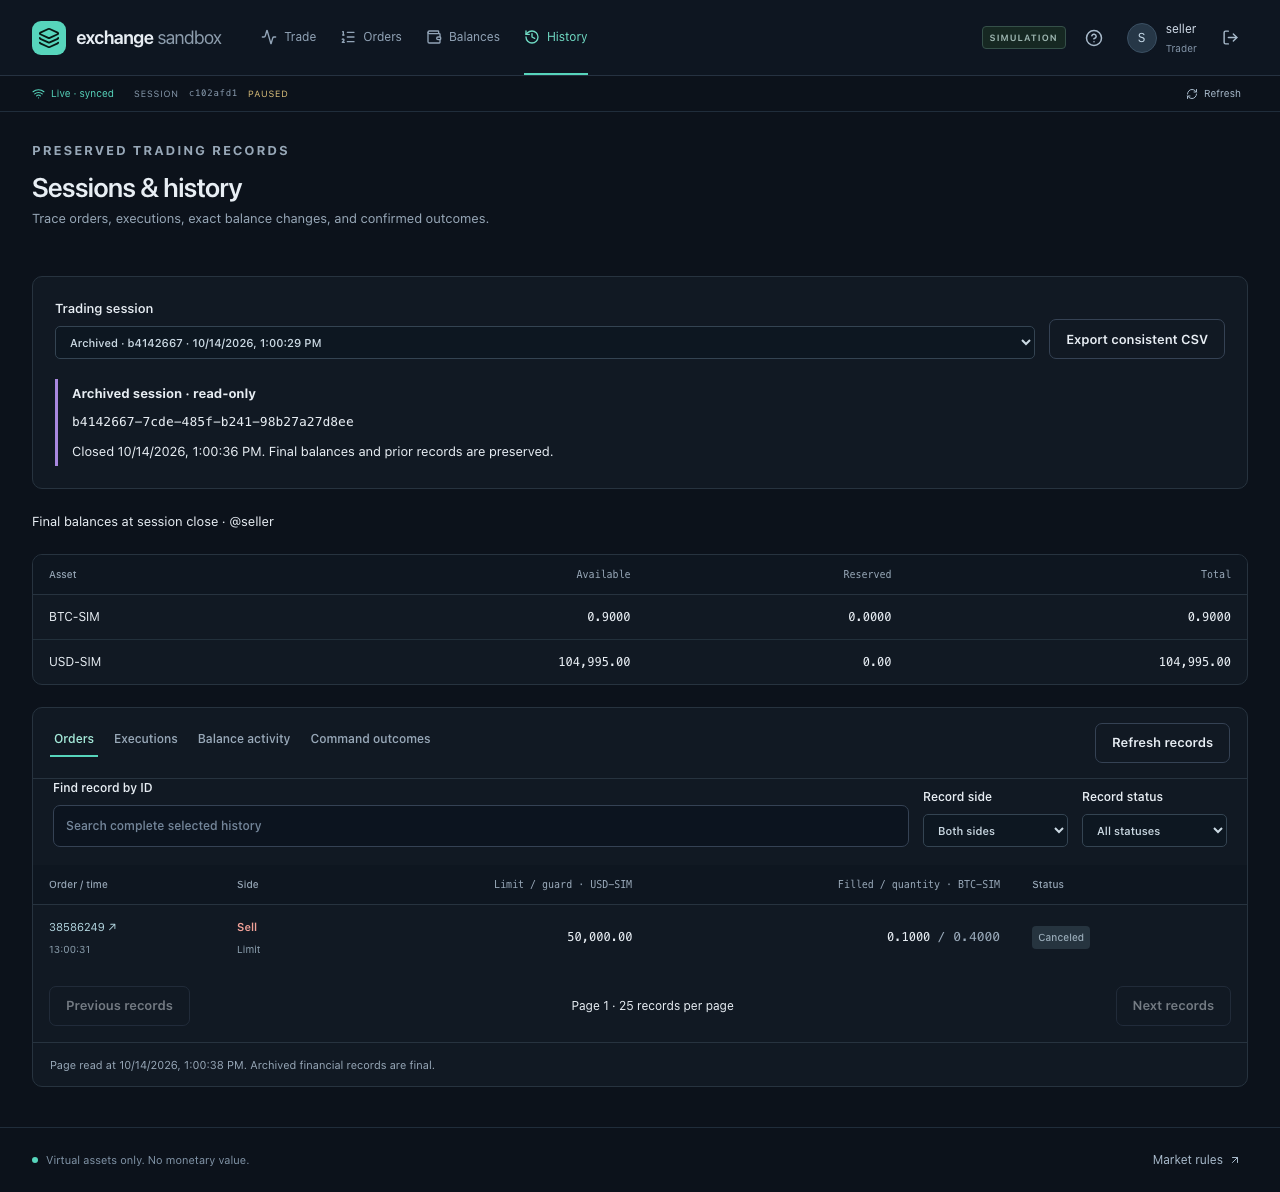
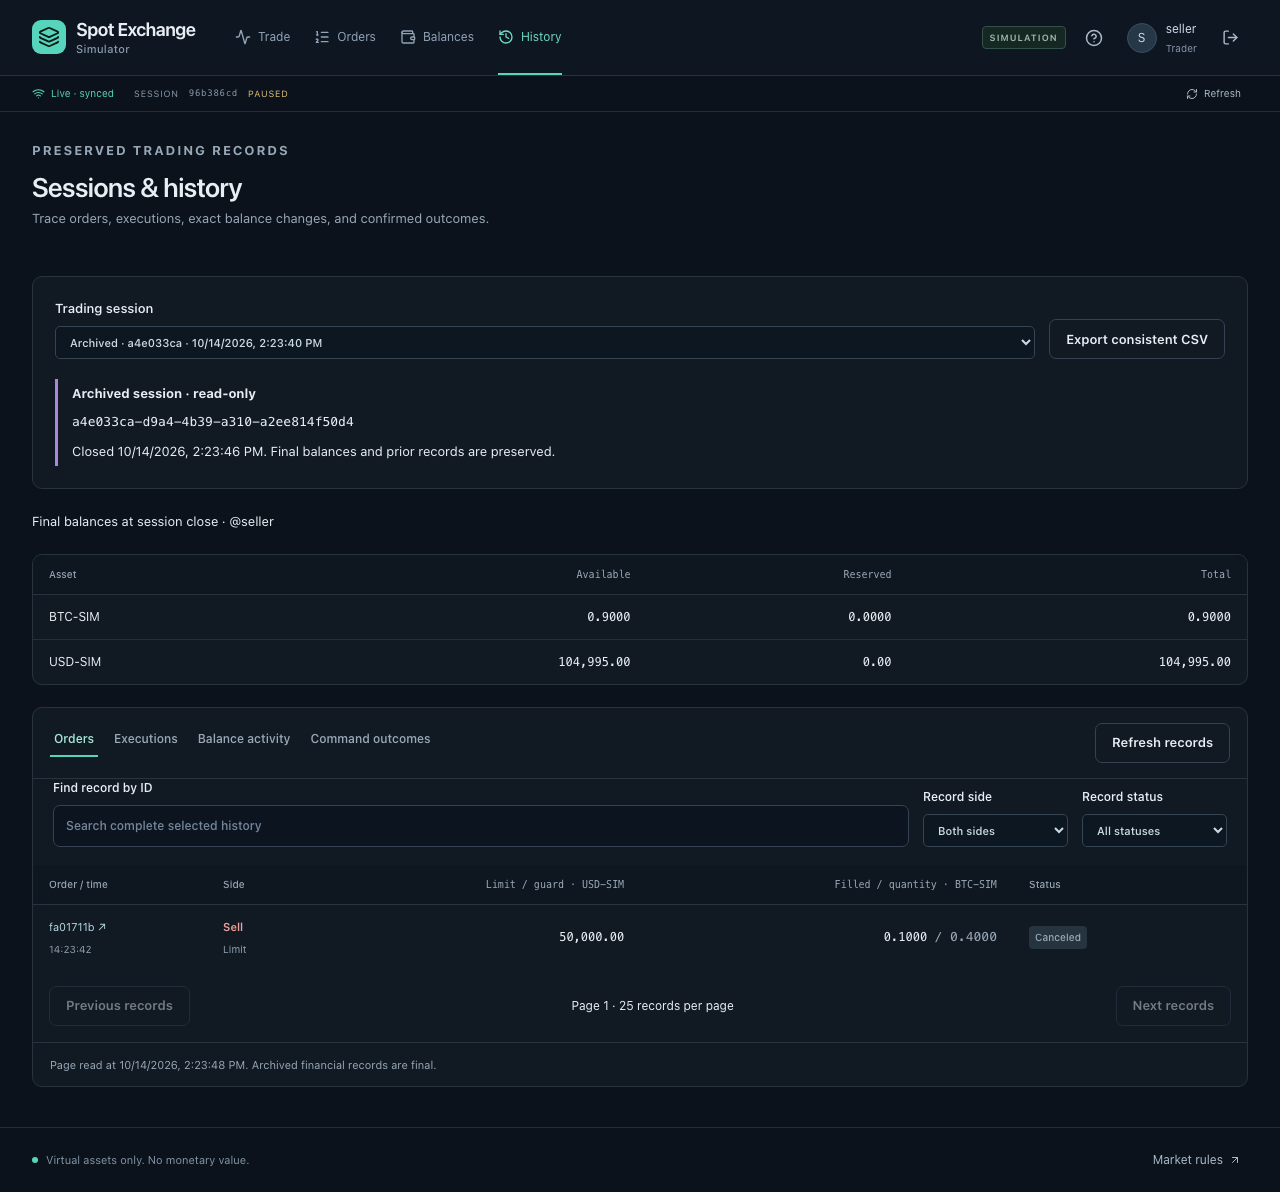
Rename the project to Spot Exchange Simulator

diff --git a/apps/web/src/auth/AuthScreen.tsx b/apps/web/src/auth/AuthScreen.tsx
@@ -1,6 +1,7 @@
 import { useLayoutEffect, useRef, useState, type CSSProperties, type FormEvent } from 'react';
 import { Link, useNavigate } from 'react-router-dom';
-import { ArrowRight, ArrowUpRight, Layers3, ShieldCheck, KeyRound } from 'lucide-react';
+import { ArrowRight, ArrowUpRight, ShieldCheck, KeyRound } from 'lucide-react';
+import { Brand, PRODUCT_NAME } from '../components/Brand.js';
 import { api, errorMessage, type User } from '../lib/api.js';
 
 function readToken(): string {
@@ -92,13 +93,8 @@ export function AuthScreen({
   return (
     <main className="auth-page">
       <section className="auth-story">
-        <Link className="brand" to="/login">
-          <span className="brand-mark">
-            <Layers3 size={22} />
-          </span>
-          <span>
-            exchange<span className="brand-sub">sandbox</span>
-          </span>
+        <Link className="brand" to="/login" aria-label={PRODUCT_NAME}>
+          <Brand />
         </Link>
         <div className="auth-story-content">
           <span className="eyebrow">A SMALL EXCHANGE. EVERY DETAIL VISIBLE.</span>

diff --git a/apps/web/src/App.tsx b/apps/web/src/App.tsx
@@ -17,7 +17,6 @@ import {
   CircleHelp,
   History,
   KeyRound,
-  Layers3,
   LayoutDashboard,
   ListOrdered,
   LogOut,
@@ -27,6 +26,7 @@ import {
   WifiOff,
 } from 'lucide-react';
 import { AuthScreen } from './auth/AuthScreen.js';
+import { Brand, PRODUCT_NAME } from './components/Brand.js';
 import { Dialog, LoadingView } from './components/ui.js';
 import {
   api,
@@ -287,13 +287,12 @@ function AuthenticatedWorkspace({
         Skip to workspace
       </a>
       <header className="app-header">
-        <NavLink to={user.role === 'ADMIN' ? '/admin' : '/trade'} className="brand">
-          <span className="brand-mark">
-            <Layers3 size={22} />
-          </span>
-          <span>
-            exchange<span className="brand-sub">sandbox</span>
-          </span>
+        <NavLink
+          to={user.role === 'ADMIN' ? '/admin' : '/trade'}
+          className="brand"
+          aria-label={PRODUCT_NAME}
+        >
+          <Brand />
         </NavLink>
         <nav className="main-nav" aria-label="Workspace navigation">
           {user.role === 'ADMIN' ? (

diff --git a/apps/web/src/styles.css b/apps/web/src/styles.css
@@ -224,6 +224,7 @@ textarea {
 }
 .brand {
   display: inline-flex;
+  flex-shrink: 0;
   align-items: center;
   gap: 10px;
   font-weight: 650;
@@ -233,6 +234,7 @@ textarea {
 }
 .brand-mark {
   display: grid;
+  flex-shrink: 0;
   place-items: center;
   color: #071914;
   background: #57d5bc;
@@ -240,10 +242,17 @@ textarea {
   height: 34px;
   border-radius: 9px;
 }
+.brand-name {
+  display: flex;
+  flex-direction: column;
+  gap: 2px;
+  line-height: 1.15;
+}
 .brand-sub {
-  font-weight: 400;
+  font-size: 11px;
+  font-weight: 500;
   color: #8d9dad;
-  margin-left: 4px;
+  letter-spacing: 0.3px;
 }
 .app-header {
   display: flex;
@@ -671,9 +680,6 @@ textarea {
     gap: 24px;
     padding-inline: 22px;
   }
-  .brand-sub {
-    display: none;
-  }
   .main-nav {
     gap: 18px;
   }
@@ -740,9 +746,6 @@ textarea {
     padding: 26px 24px;
     border-right: 0;
     border-bottom: 1px solid #2c3a48;
-  }
-  .auth-story .brand-sub {
-    display: inline;
   }
   .auth-story-content,
   .auth-footnote {

diff --git a/apps/web/index.html b/apps/web/index.html
@@ -8,9 +8,9 @@
     <meta name="referrer" content="no-referrer" />
     <meta
       name="description"
-      content="An invitation-only exchange for virtual assets. Explore orders, matching, and exact accounting."
+      content="An open-source spot exchange simulator for virtual assets. Explore orders, matching, and exact accounting."
     />
-    <title>Exchange sandbox</title>
+    <title>Spot Exchange Simulator</title>
   </head>
   <body>
     <div id="root"></div>

diff --git a/apps/server/src/main.ts b/apps/server/src/main.ts
@@ -71,7 +71,7 @@ try {
   }
   await app.listen({ port, host });
   simulator.start();
-  console.log(`Exchange sandbox API ready on port ${port}. Application origin: ${origin}.`);
+  console.log(`Spot Exchange Simulator API ready on port ${port}. Application origin: ${origin}.`);
   console.log('Virtual assets only. Run administrator setup before inviting traders.');
   console.log('Simulator intent is controlled by the administrator workspace.');
 } catch (error) {

diff --git a/apps/web/src/admin/AdminWorkspace.tsx b/apps/web/src/admin/AdminWorkspace.tsx
@@ -215,7 +215,7 @@ export function AdminWorkspace({
           <h1>
             Control room<span className="admin-role-label">Administrator</span>
           </h1>
-          <p>Run the sandbox with a clear record of every decision.</p>
+          <p>Run the simulator with a clear record of every decision.</p>
         </div>
         <div className="admin-market-control">
           <Status value={faulted ? 'FAULT' : overview.marketState} />

diff --git a/apps/web/src/components/Brand.tsx b/apps/web/src/components/Brand.tsx
@@ -1,0 +1,16 @@
+import { Layers3 } from 'lucide-react';
+
+export const PRODUCT_NAME = 'Spot Exchange Simulator';
+
+export function Brand() {
+  return (
+    <>
+      <span className="brand-mark" aria-hidden="true">
+        <Layers3 size={22} />
+      </span>
+      <span className="brand-name">
+        Spot Exchange<span className="brand-sub">Simulator</span>
+      </span>
+    </>
+  );
+}

diff --git a/apps/web/src/trader/TraderWorkspace.tsx b/apps/web/src/trader/TraderWorkspace.tsx
@@ -110,7 +110,7 @@ export function TraderWorkspace({
       <div className="trader-page-heading">
         <div>
           <div className="trader-eyebrow">
-            EXCHANGE SANDBOX <span>VIRTUAL ASSETS ONLY</span>
+            SPOT EXCHANGE SIMULATOR <span>VIRTUAL ASSETS ONLY</span>
           </div>
           <h1>{headings[section]}</h1>
           <p>{descriptions[section]}</p>

diff --git a/apps/server/src/api.ts b/apps/server/src/api.ts
@@ -83,7 +83,7 @@ export async function buildApi(options: ApiOptions) {
   await app.register(swagger, {
     openapi: {
       info: {
-        title: 'Exchange sandbox API',
+        title: 'Spot Exchange Simulator API',
         version: '0.2.0',
         description:
           'Virtual BTC-SIM / USD-SIM. Cookie authentication with exact-origin and CSRF checks.',

diff --git a/docs/RELEASE.md b/docs/RELEASE.md
@@ -61,6 +61,8 @@ Run operator setup in an interactive terminal and choose your own administrator 
 
 To upgrade, back up first, stop the API/web, rebuild, run `migrate`, then restart. Run `operator reset` only for owner-authorized administrator credential recovery while the API is stopped. Ordinary `docker compose down` retains volumes; removing them is a separate destructive action. Back up database contents and the private connection configuration through your own protected backup process.
 
+The product's image tags use `spot-exchange-simulator`. Existing installations should retain their checkout directory or explicit Compose project name when adopting the renamed repository, so Compose continues to use the same persistent volumes. Existing credentials, database roles, and financial records remain compatible.
+
 The deployment trusts exactly one private proxy hop for client authentication throttling. Caddy sanitizes forwarded client headers; keep the backend port private and retain the default zero-hop setting when running a direct development API. The runtime database role cannot create/alter/drop schema objects, rewrite migration metadata, or assume an owner role. Provisioning rejects a pre-existing role that owns objects rather than silently claiming it is restricted.
 
 ## Operational evidence
@@ -117,7 +119,7 @@ Use the scenario definitions in [MVP release acceptance](MVP.md#release-acceptan
 | A15 fault and rollover boundaries     | Gated enrollment/funding/reinstatement tests, faulted-transition repair/retry tests, access-revocation checks                          |
 | A16 coherent live export              | Concurrent-commit export test with one Repeatable Read snapshot, exact balance/fee totals, role scopes, and recorded manifest boundary |
 
-The archive browser scenario also verifies a 390 × 844 viewport without document overflow, a history workspace that fills the available width, readable session/export/pagination controls, and Escape restoring focus after closing read-only order details. The isolated HTTPS/proxy smoke report supplements the development-browser scenarios. Local verification is recorded in [development evidence](DEVELOPMENT.md#evidence-and-limitations). The public repository's **Actions → Verify exchange sandbox** view records remote Linux runs against their exact commits, including image builds and a downloadable sanitized restore report. Check that commit's result when evaluating a release.
+The archive browser scenario also verifies a 390 × 844 viewport without document overflow, a history workspace that fills the available width, readable session/export/pagination controls, and Escape restoring focus after closing read-only order details. The isolated HTTPS/proxy smoke report supplements the development-browser scenarios. Local verification is recorded in [development evidence](DEVELOPMENT.md#evidence-and-limitations). The public repository's **Actions → Verify Spot Exchange Simulator** view records remote Linux runs against their exact commits, including image builds and a downloadable sanitized restore report. Check that commit's result when evaluating a release.
 
 ## Contributing
 

diff --git a/docs/DEVELOPMENT.md b/docs/DEVELOPMENT.md
@@ -173,9 +173,11 @@ The domain does not open database connections. The service owns the transaction 
 
 ## Evidence and limitations
 
+The product and root workspace package are named **Spot Exchange Simulator** (`spot-exchange-simulator`). Internal `@sandbox/*` package names, authentication identifiers, database roles, and durable browser storage keys retain their existing names for compatibility. Renaming the product does not reset an installation or invalidate pending command recovery.
+
 Local validation uses Node.js 24 and PostgreSQL 18.4. The complete `pnpm check` passed 76 unit/property/client tests, 124 PostgreSQL integration tests, all 10 Chromium scenarios, type checking, formatting, and the web build. A focused follow-up passed the new archive keyboard/390 px assertions in the existing rollover scenario. Self-host images built successfully, HTTPS/proxy smoke checks passed, and the fresh-database restore and disclosed workload exercises passed; their sanitized evidence is linked in [release verification](RELEASE.md#recorded-local-operational-results).
 
-The public repository runs the same checks in GitHub Actions on Linux, also building all three self-host image targets and exercising a fresh PostgreSQL 18 restore. Inspect **Actions → Verify exchange sandbox** for the result associated with a specific published commit and its operational report; local results alone do not establish that remote result. The rollover browser regression checks that the narrow history workspace uses its available width, the session selector remains readable, and export controls sit below it without document overflow.
+The public repository runs the same checks in GitHub Actions on Linux, also building all three self-host image targets and exercising a fresh PostgreSQL 18 restore. Inspect **Actions → Verify Spot Exchange Simulator** for the result associated with a specific published commit and its operational report; local results alone do not establish that remote result. The rollover browser regression checks that the narrow history workspace uses its available width, the session selector remains readable, and export controls sit below it without document overflow.
 
 | Suite                                         | Behavior exercised                                                                                                                                                                                                      |
 | --------------------------------------------- | ----------------------------------------------------------------------------------------------------------------------------------------------------------------------------------------------------------------------- |

diff --git a/docs/MVP.md b/docs/MVP.md
@@ -1,6 +1,6 @@
-# Exchange sandbox MVP
+# Spot Exchange Simulator MVP
 
-Status: MVP product scope accepted. The defaults below define the agreed exchange sandbox, with real funds excluded. They are requirements, not claims about implemented features. The accepted technical design is recorded separately in [System architecture and stack](ARCHITECTURE.md); [development and validation](DEVELOPMENT.md) tracks the implemented milestone.
+Status: MVP product scope accepted. The defaults below define Spot Exchange Simulator, with real funds excluded. They are requirements, not claims about implemented features. The accepted technical design is recorded separately in [System architecture and stack](ARCHITECTURE.md); [development and validation](DEVELOPMENT.md) tracks the implemented milestone.
 
 The accepted automation design is the two-account demo market simulator below. It replaces the earlier single quoting-bot proposal. Its administrator controls, inventory visibility, and audited funding are implemented. Protected market orders, session rollover, retained archives, complete history pagination/search, and consistent CSV exports implement the flows below. Release evidence is tracked in [development](DEVELOPMENT.md) and [release verification](RELEASE.md).
 
